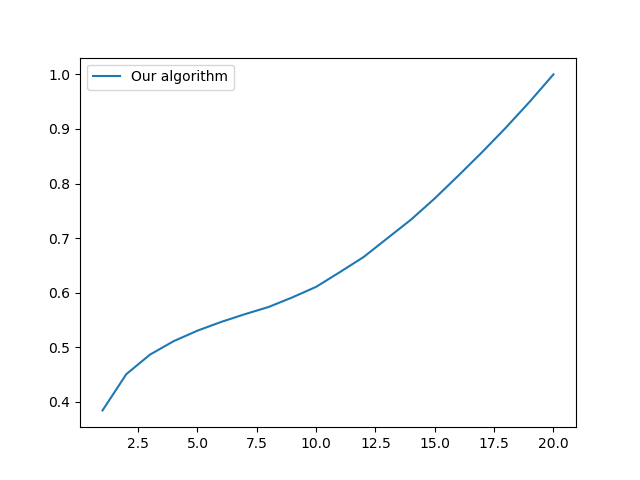
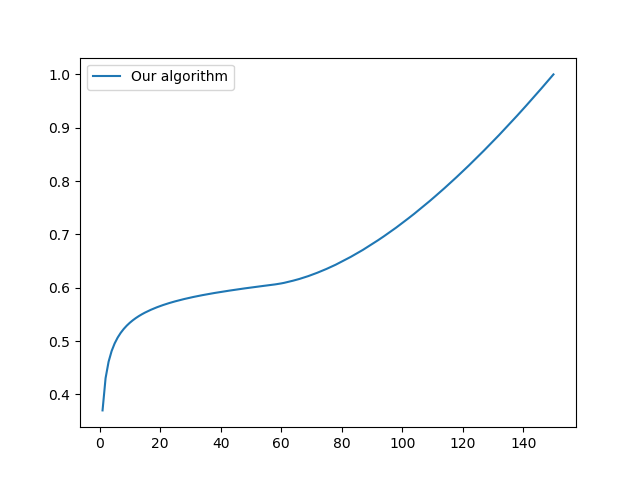
Added plot for n = 150. Changed recursive to dynamic prog + memoization.

diff --git a/UniformMatroids/exactprob.cpp b/UniformMatroids/exactprob.cpp
@@ -18,18 +18,26 @@ tree_order_statistics_node_update> ordered_set;
 
 vector<double> prob;
 
-double getprob(int position, int taken, int target){
-	// cout<<position<<" "<<taken<<" "<<target<<endl;
-	if(taken > target) return 0;
-	if(position == prob.size() && taken != target){
-		return 0;
+double getprob(int target){
+	
+	int sz = prob.size();
+	double dp[sz+1][target+1];
+	for(int i = 0; i < sz+1; i++){
+		for(int j = 0; j < target+1; j++){
+			dp[i][j] = 0;
+		}
 	}
-	else if(position == prob.size()){
-		return 1;
+	dp[0][0] = 1;
+	for(int i = 1; i <= sz; i++){
+		for(int j = 0; j < target+1; j++){
+			if(j != 0) dp[i][j] += prob[i-1]*dp[i-1][j-1];
+			dp[i][j] += (1-prob[i-1])*dp[i-1][j];
+		}
 	}
+
 	double total = 0;
-	total += prob[position]*getprob(position+1,taken+1,target);
-	total += (1-prob[position])*getprob(position+1,taken,target);
+	for(int i = 0; i <= target; i++) total += dp[sz][i];
+
 	return total;
 }
 
@@ -42,9 +50,7 @@ double perform_experiment(int n, int k, int sample){
 
 	for(int i = sample+1; i <= n; i++){
 		double p = min(1.0,(double)k/i);
-		for(int take = 0; take < min(1+(int)prob.size(),k); take++){
-			total += 1.0/n*getprob(0,0,take);
-		}
+		total += 1.0/n*getprob(min((int)prob.size(),k-1));
 		prob.push_back(p);
 	}
 
@@ -55,7 +61,7 @@ double perform_experiment(int n, int k, int sample){
 int main()
 {
 
-	int n = 20; 
+	int n = 150; 
 	
 	cout<<"n k comp ratio samplefactor"<<endl;
 

diff --git a/plot.py b/plot.py
@@ -15,7 +15,7 @@ with open("UniformMatroids/result.txt") as f:
 
 lines = lines[1:]
 x = [float(line.split()[1]) for line in lines]
-y = [float(line.split()[3]) for line in lines]
+y = [float(line.split()[2]) for line in lines]
 
 plt.plot(x,y, label = 'Our algorithm')	
 
@@ -29,5 +29,5 @@ plt.plot(x,y, label = 'Our algorithm')
 # plt.plot(x,y, label = 'Kleinberg\'s algorithm')
 
 leg = plt.legend()
-plt.savefig('bruteforcechecksample.png')
+plt.savefig('bruteforcecheck.png')
 plt.show()		
